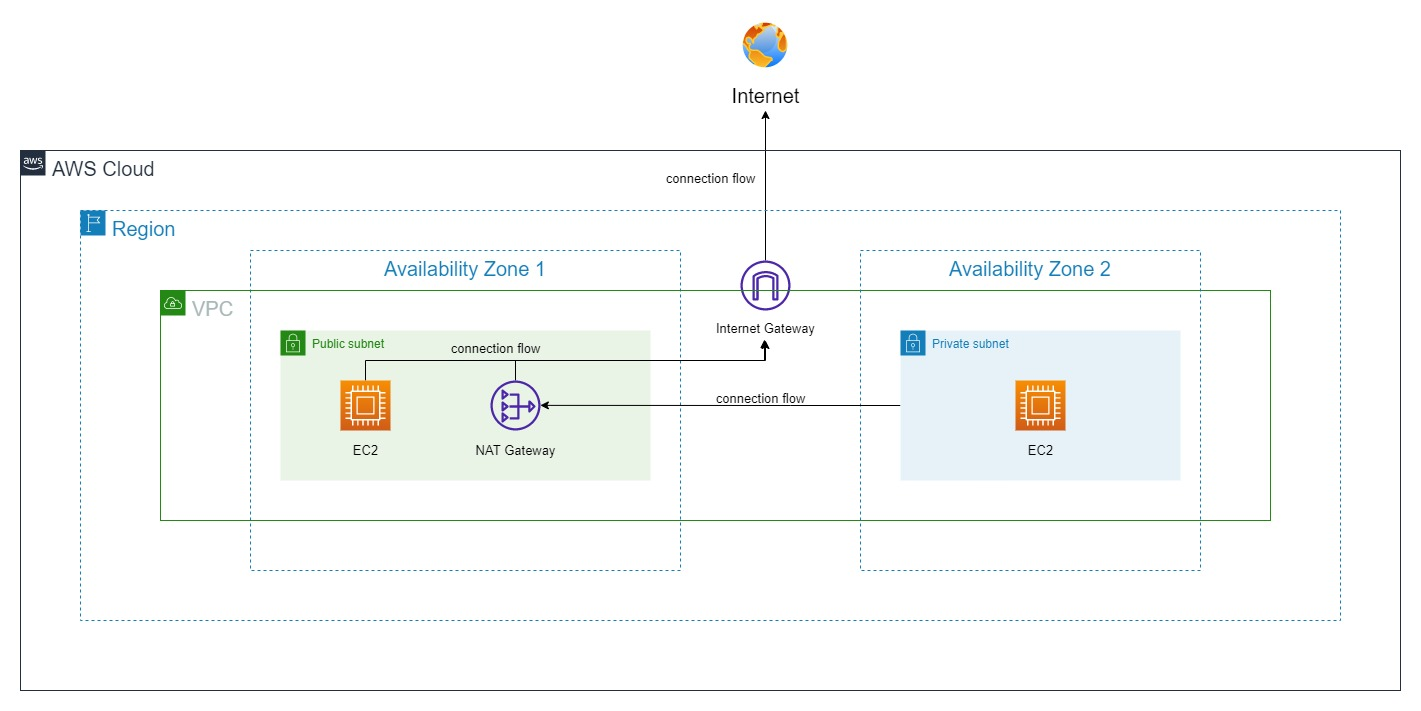
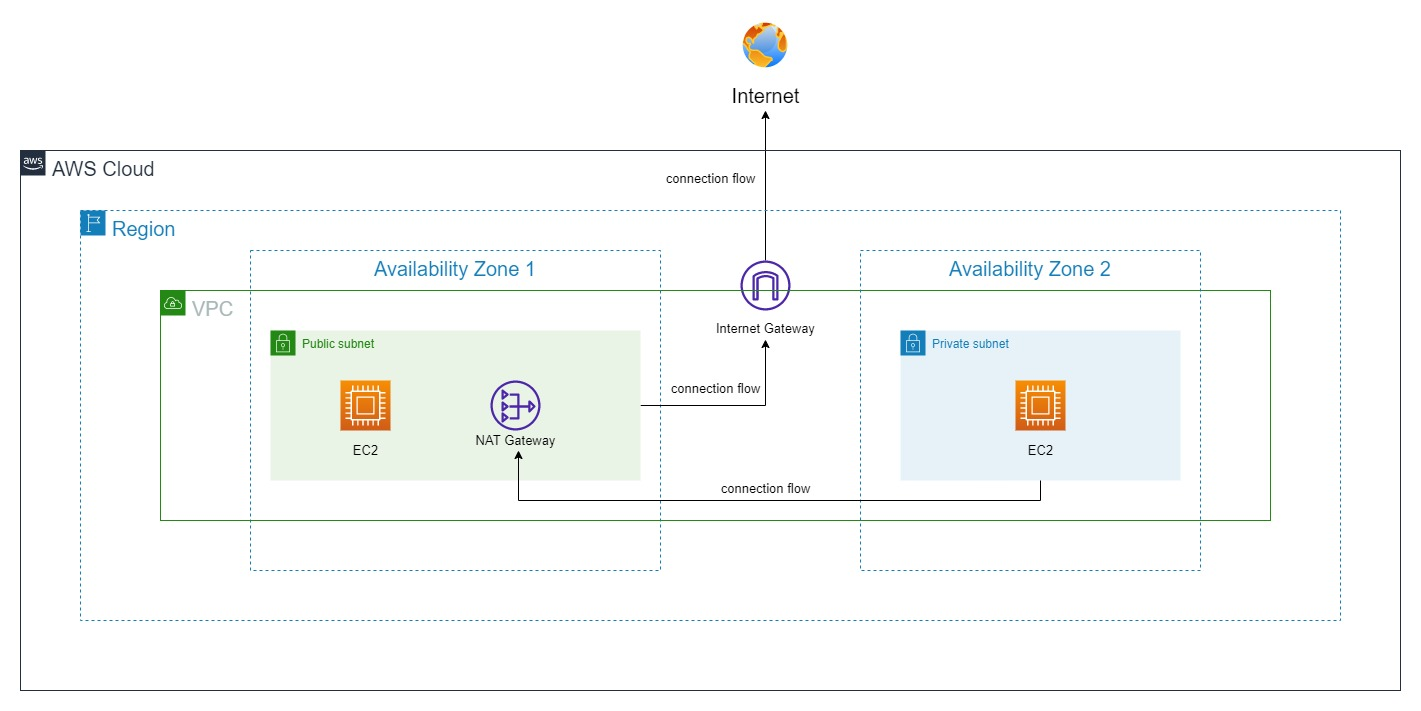
init

diff --git a/Windows-On-AWS-AWS-Basic-Listing-Creating-Deleting-Resources/readme.md b/Windows-On-AWS-AWS-Basic-Listing-Creating-Deleting-Resources/readme.md
@@ -36,9 +36,13 @@ We will go through from inside to outsite, they are as followed:
     - Compute Optimized: use for computational tasks which is required high CPU processing due to heavy work-load
     - Memories Optimized: use for fast performance for workloads that process large data sets in memory
     - And some more other instance type which you can find here: [AWS Instance Types](https://aws.amazon.com/ec2/instance-types/) 
-- NAT Gateway: this is a network-based service that provided by AWS to help the other services that inside a private network can connecto to the internet
-- Internet Gateway: this is alsl a network-based service that managed by AWS to help all of the service inside a VPC (AWS Local) to be able to connect to the internet
-- Availability Zone (AZ): this is a physical datacenter in which can be understood as an AZ. It presents the available of AWS Services. This is spread-out zone by zone. An AZ is located inside an AWS Region
-- AWS Region: This is the physical places where Amazon build the Datacenters and make them become aailable for usage. An AWS Region can have at least 1 AZ and at most 4 AZ (continue to growth)
-- 
+- NAT Gateway: this is a network-based service that provided by AWS to help the other services that inside a private network can connect to the internet
+- Internet Gateway: this is also a network-based service that managed by AWS to help all of the services inside a VPC (AWS Local) to be able to connect to the internet
+- Public Subnet
+- VPC: stand for Virtual Private Cloud this can be understood as a De-militaly Zone (DMZ) which is deployed based on the underlied hardware and provisioned to AWS customer (us) to use. By AWS definition, All VPCs are completely private, that means, a VPC is logically separate your infrastructure. 
+    > If there were 2 VPCs that deployed at the same AZ and same AWS Region, they are still completely private and cannot be connected to each others. Unless, we setup some special services and connect 2 VPC. Then, they will be able to communicate to each other
+- Availability Zone (AZ): this is a physical datacenter in which can be understood as an AZ. It presents the available of AWS Services. This is spread-out zone by zone. An AZ is located inside an AWS Region. From the chart, we can see that AZ 1 and AZ 2 which mean that our service is deployed into 2 different datacenter in the same region 
+- AWS Region(s): They are the physical places where Amazon build the Datacenters and make them become aailable for usage. An AWS Region can have at least 1 AZ and at most 4 AZ (continue to growth)
+- AWS Cloud: This is virtually understands that all of the services that we deployed will belong / inside Amazon Web Service
+- Internet: global internet (0.0.0.0/0)
 
